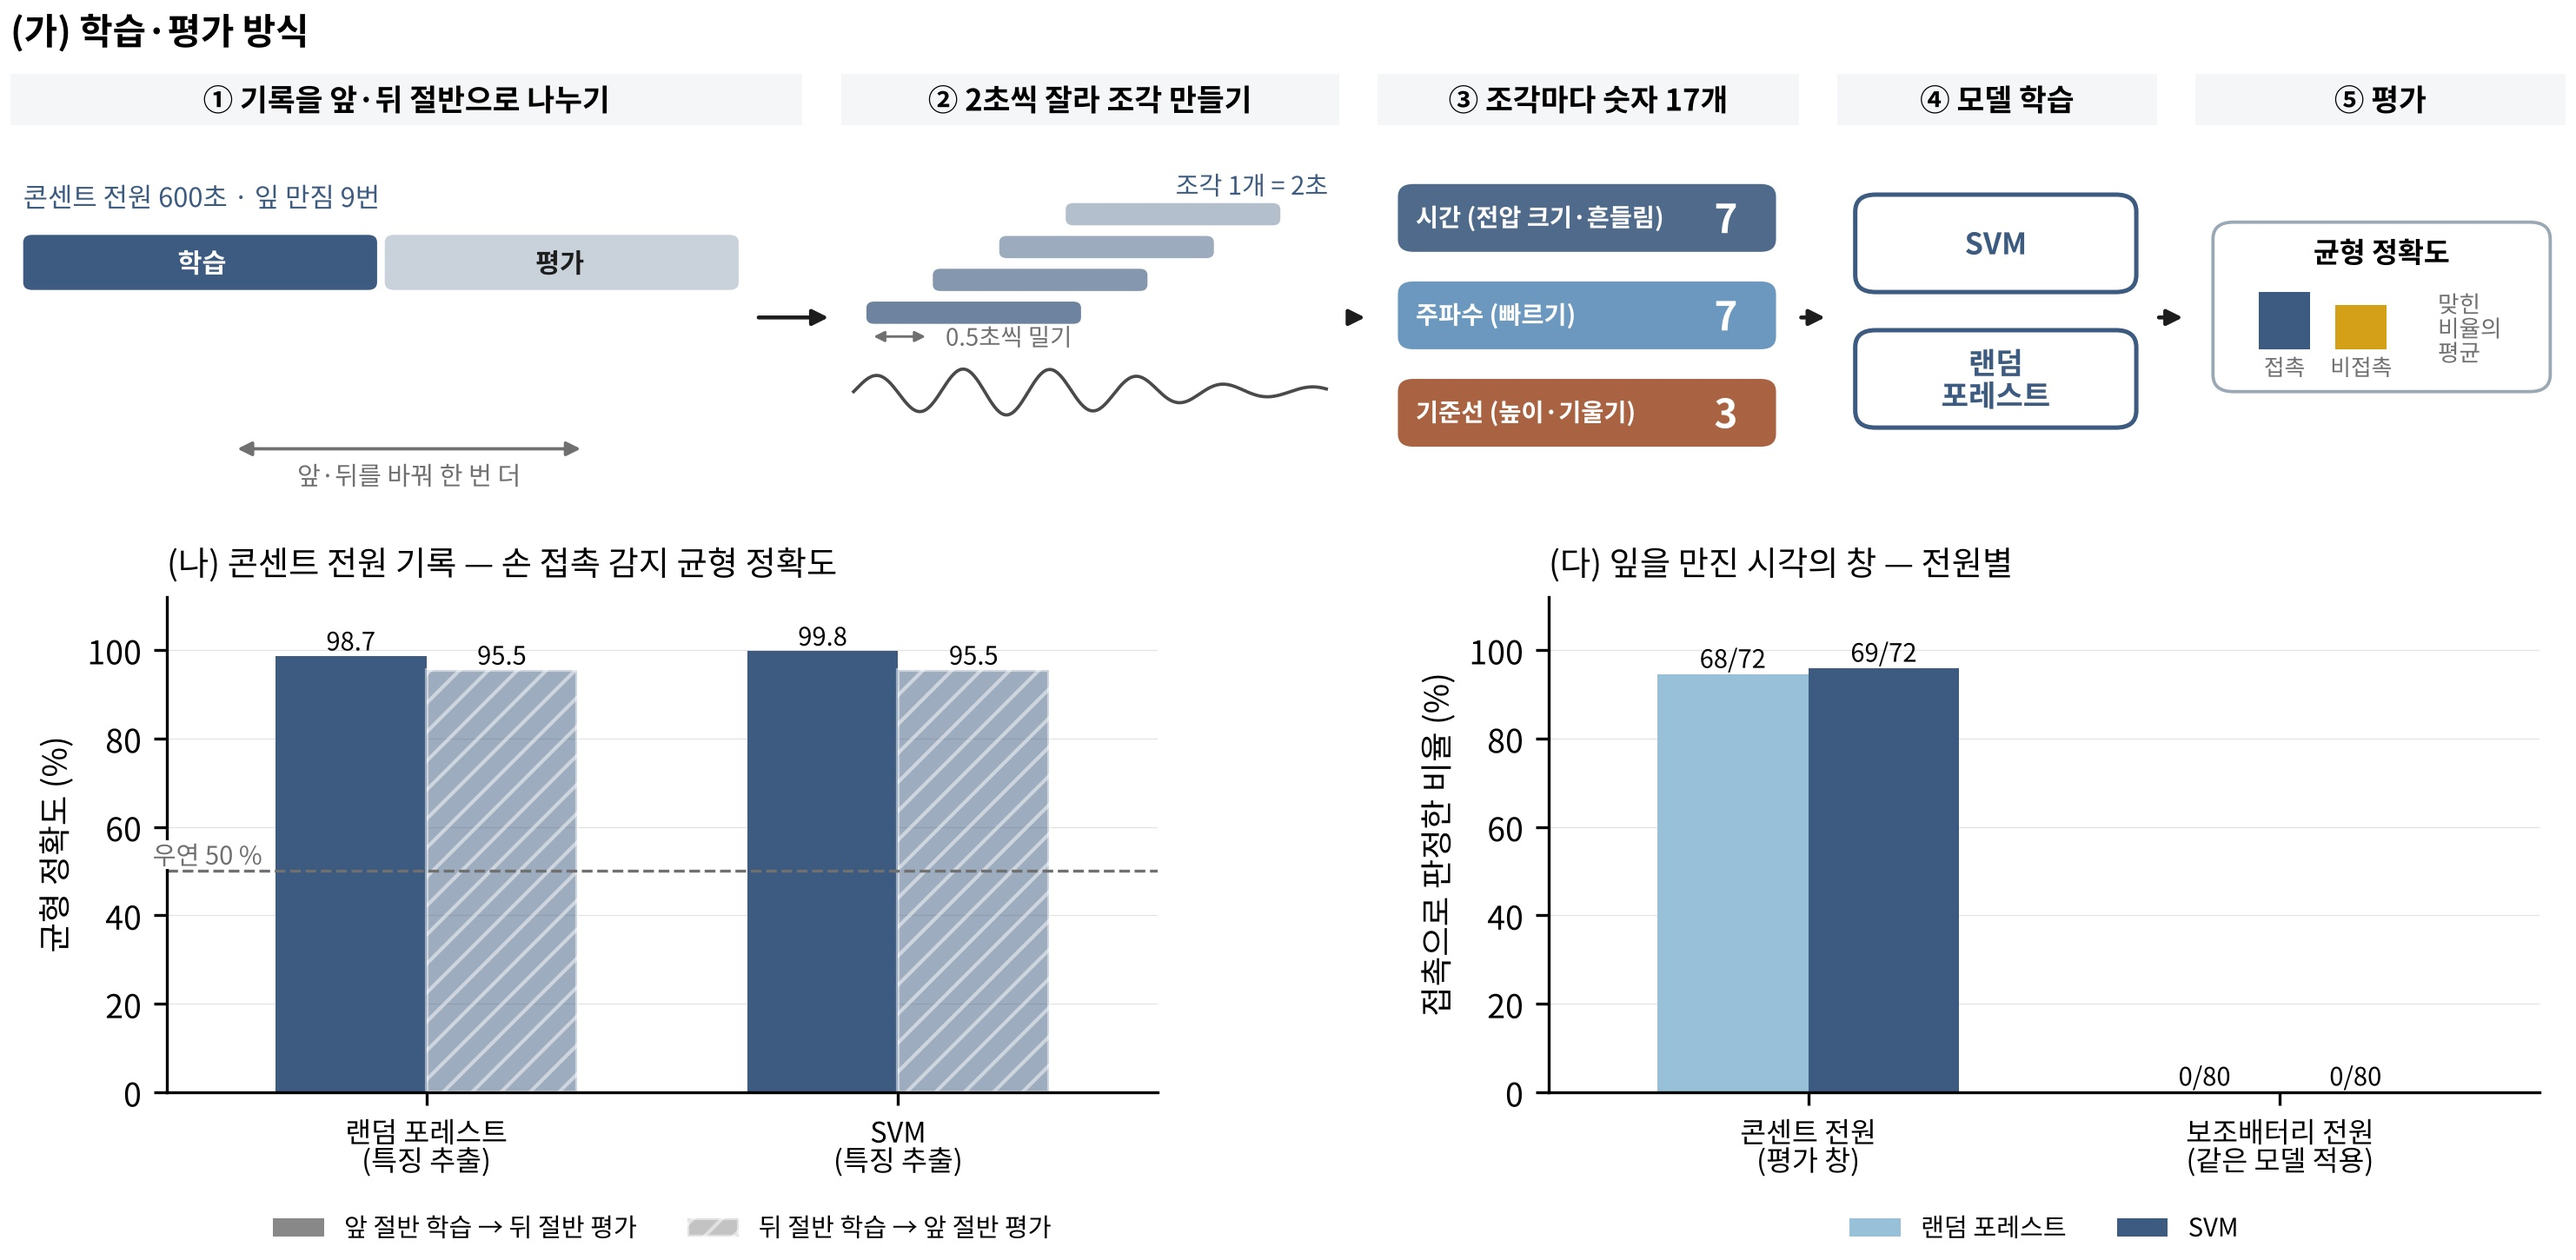
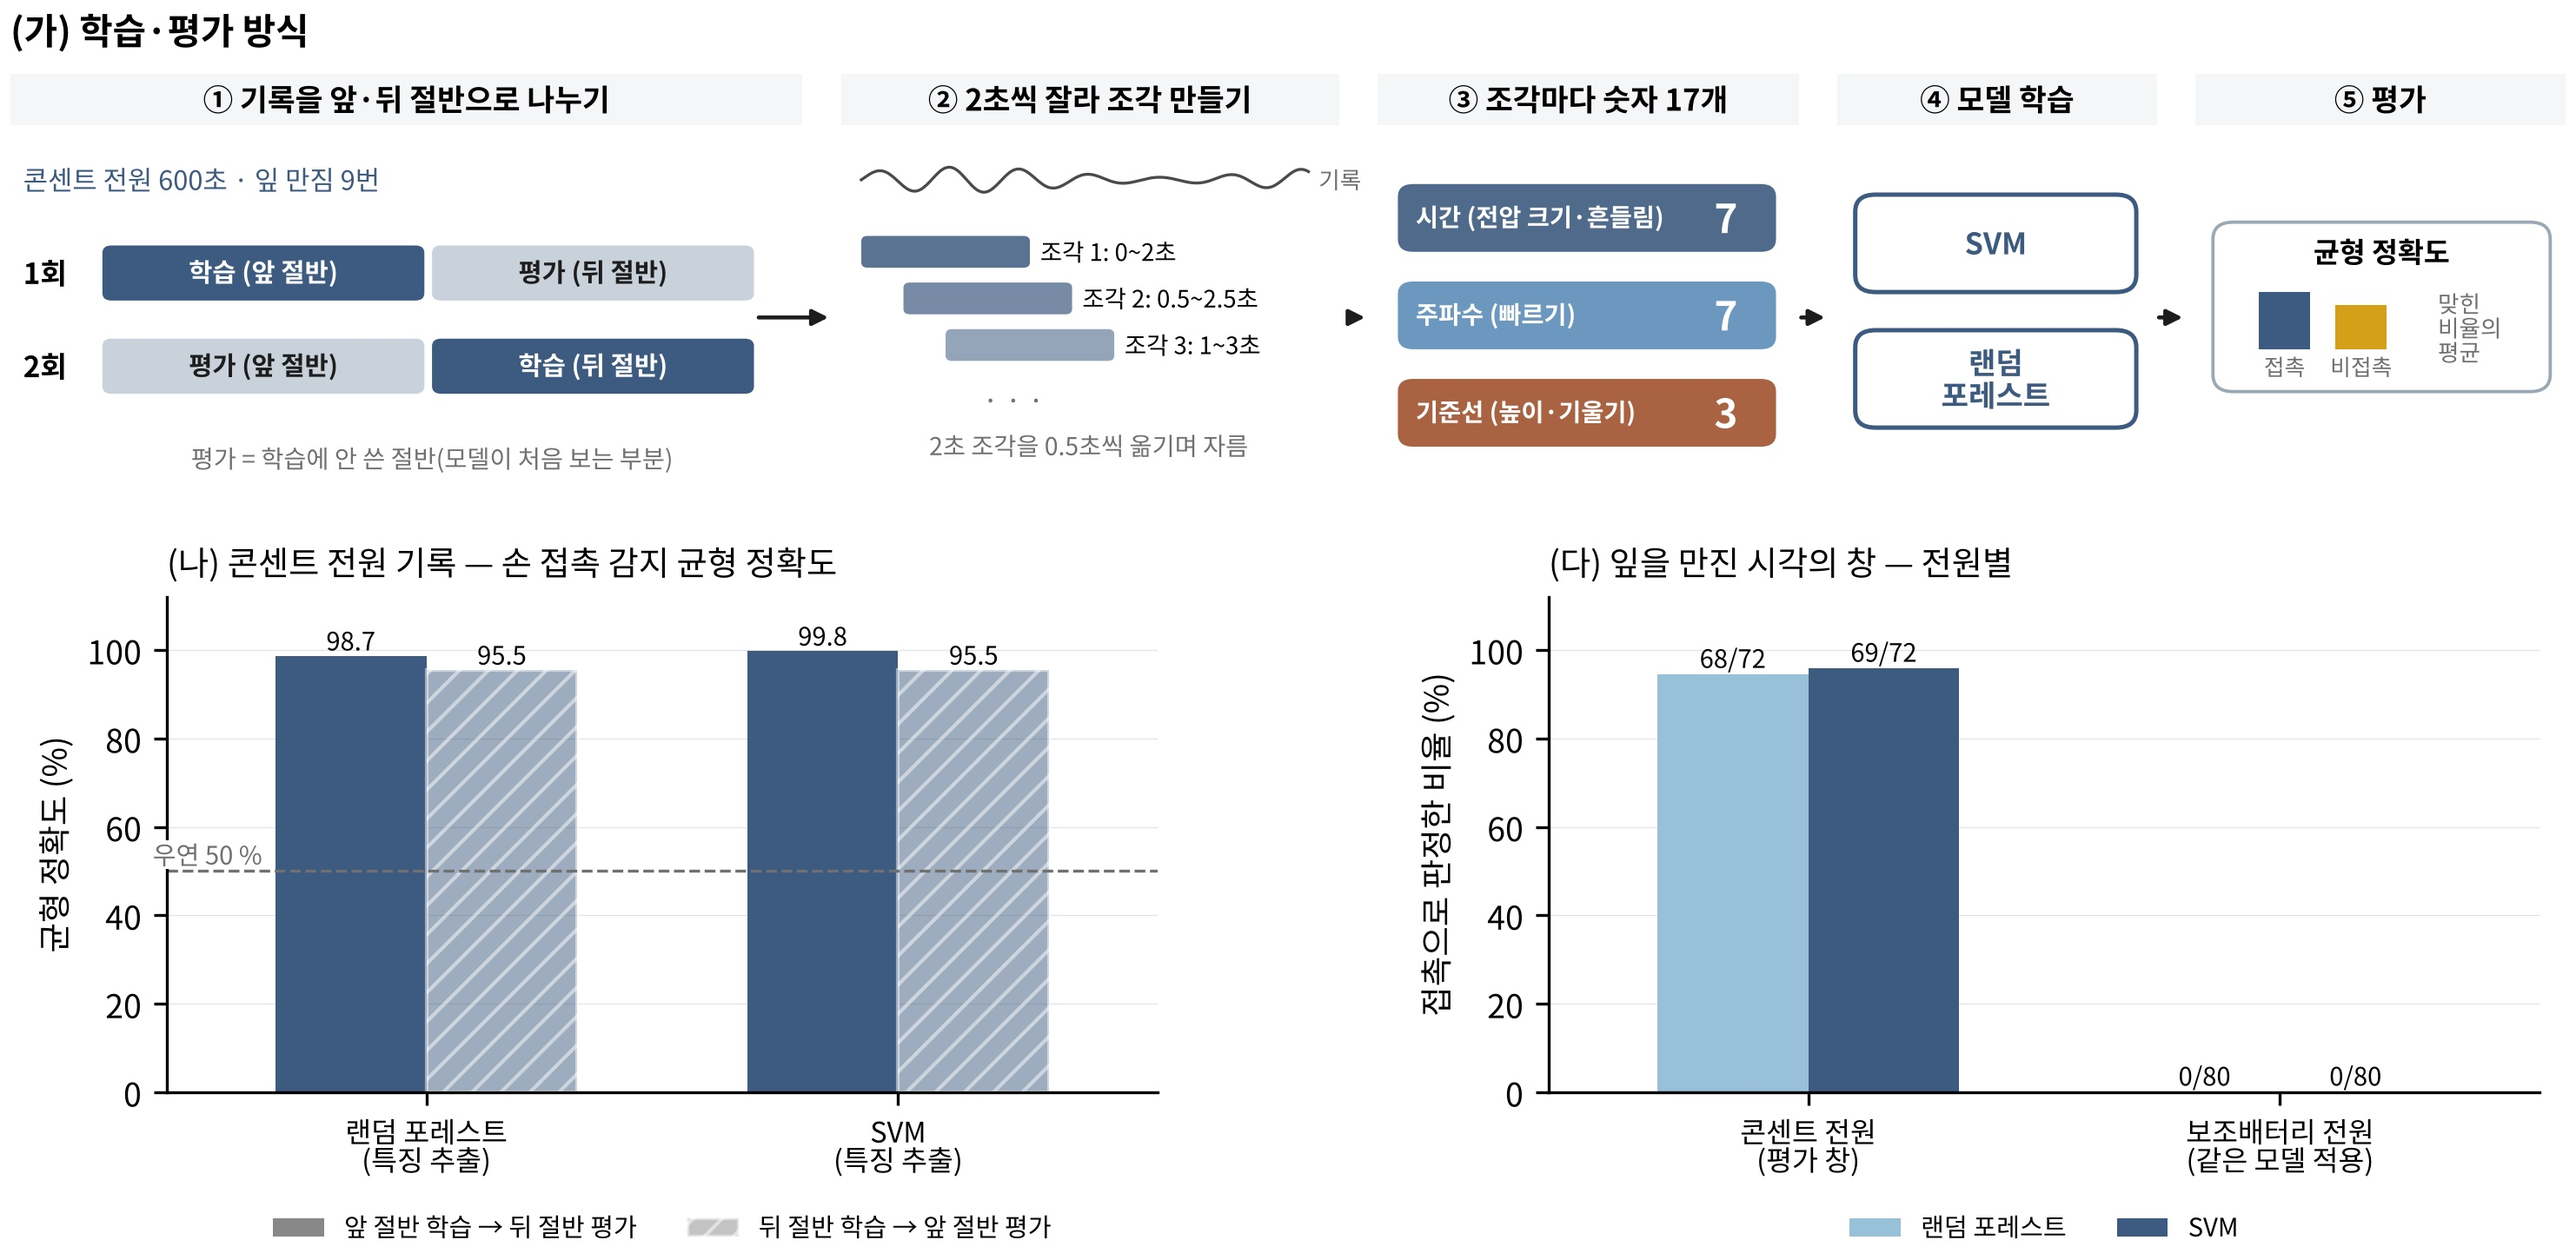
그림6 (가) ①②: 1회·2회 두 줄, 2초 조각을 0.5초씩 옮겨 자르는 모습을 시각으로 표시
Claude-Session: https://claude.ai/code/session_01JhQkgfdzNkTpKPSBfVdw6o

diff --git a/report/stim/fig_ml_eval.py b/report/stim/fig_ml_eval.py
@@ -26,25 +26,31 @@ def arrow(x0, x1, y=9.5):
     a.annotate("", (x1, y), (x0, y), arrowprops=dict(arrowstyle="-|>", lw=1.1, color=INK, mutation_scale=9))
 band(0, 31, "① 기록을 앞·뒤 절반으로 나누기"); band(32.5, 52, "② 2초씩 잘라 조각 만들기"); band(53.5, 70, "③ 조각마다 숫자 17개")
 band(71.5, 84, "④ 모델 학습"); band(85.5, 100, "⑤ 평가")
-# ① 콘센트 기록 600초: 만진 시각 9번, 앞 4번/뒤 5번
-L = 28.0
-a.add_patch(FancyBboxPatch((0.5, 10.8), L * 0.5 - 0.15, 2.6, boxstyle="round,pad=0,rounding_size=0.35", fc=M1, ec="none"))
-a.add_patch(FancyBboxPatch((0.5 + L * 0.5 + 0.15, 10.8), L * 0.5 - 0.15, 2.6, boxstyle="round,pad=0,rounding_size=0.35", fc=M1, alpha=0.28, ec="none"))
-a.text(0.5 + L * 0.25, 12.1, "학습", ha="center", va="center", fontsize=7.3, color="white", fontweight="bold")
-a.text(0.5 + L * 0.75, 12.1, "평가", ha="center", va="center", fontsize=7.3, color=INK, fontweight="bold")
-a.text(0.5, 15.2, "콘센트 전원 600초 · 잎 만짐 9번", fontsize=7.4, color=M1, va="center")
-a.annotate("", (8.6, 3.3), (22.6, 3.3), arrowprops=dict(arrowstyle="<|-|>", lw=0.9, color=GRAY, mutation_scale=8))
-a.text(15.6, 1.6, "앞·뒤를 바꿔 한 번 더", ha="center", fontsize=7, color=GRAY)
+# ① 1회·2회: 학습/평가 절반을 바꿔 두 번
+a.text(0.5, 16.0, "콘센트 전원 600초 · 잎 만짐 9번", fontsize=7.4, color=M1, va="center")
+W = 12.6
+for r, (lab, first, second) in enumerate((("1회", "학습", "평가"), ("2회", "평가", "학습"))):
+    y = 11.6 - r * 4.4
+    a.text(0.5, y, lab, va="center", fontsize=8, fontweight="bold")
+    for k, t_ in enumerate((first, second)):
+        x = 3.6 + k * (W + 0.3)
+        dark = t_ == "학습"
+        a.add_patch(FancyBboxPatch((x, y - 1.3), W, 2.6, boxstyle="round,pad=0,rounding_size=0.35", fc=M1, alpha=1 if dark else 0.28, ec="none"))
+        a.text(x + W / 2, y, t_ + (" (앞 절반)" if k == 0 else " (뒤 절반)"), ha="center", va="center", fontsize=7.1,
+               color="white" if dark else INK, fontweight="bold")
+a.text(16.5, 2.4, "평가 = 학습에 안 쓴 절반(모델이 처음 보는 부분)", ha="center", fontsize=6.8, color=GRAY)
 arrow(29.0, 32.3)
-# ② 신호 + 겹치는 창
-xx = np.linspace(0, 1, 400)
-a.plot(33 + 18.5 * xx, 6.0 + 1.1 * np.sin(xx * 34) * (0.6 + 0.4 * np.sin(xx * 5)), color="#4a4a4a", lw=0.9)
-for k in range(4):
-    x = 33.5 + k * 2.6
-    a.add_patch(FancyBboxPatch((x, 9.2 + k * 1.55), 8.4, 1.05, boxstyle="round,pad=0,rounding_size=0.3", fc=M1, alpha=0.75 - k * 0.12, ec="none"))
-a.text(45.6, 15.3, "조각 1개 = 2초", fontsize=7, color=M1, ha="left")
-a.annotate("", (36.1, 8.6), (33.5, 8.6), arrowprops=dict(arrowstyle="<|-|>", lw=0.7, color=GRAY, mutation_scale=6))
-a.text(36.6, 8.6, "0.5초씩 밀기", ha="left", va="center", fontsize=6.6, color=GRAY)
+# ② 2초 조각을 0.5초씩 옮기며 자르기
+xx = np.linspace(0, 1, 300)
+a.plot(33.3 + 17.5 * xx, 16.0 + 0.6 * np.sin(xx * 40) * (0.6 + 0.4 * np.sin(xx * 7)), color="#4a4a4a", lw=0.8)
+a.text(51.2, 16.0, "기록", fontsize=6.4, color=GRAY, va="center", ha="left")
+U = 3.3   # 1초 길이
+for k, lab in enumerate(("0~2초", "0.5~2.5초", "1~3초")):
+    x = 33.3 + k * 0.5 * U; y = 12.6 - k * 2.2
+    a.add_patch(FancyBboxPatch((x, y - 0.75), 2 * U, 1.5, boxstyle="round,pad=0,rounding_size=0.25", fc=M1, alpha=0.85 - k * 0.15, ec="none"))
+    a.text(x + 2 * U + 0.4, y, f"조각 {k + 1}: {lab}", fontsize=6.6, va="center")
+a.text(33.3 + 1.5 * U + 1.0, 5.6, "· · ·", fontsize=8, color=GRAY, ha="center", va="center")
+a.text(42.2, 3.0, "2초 조각을 0.5초씩 옮기며 자름", ha="center", fontsize=6.8, color=GRAY)
 arrow(52.2, 53.3)
 # ③ 특징 칩 3개
 for k, (t1, n, col) in enumerate((("시간 (전압 크기·흔들림)", "7", "#3d5a80"), ("주파수 (빠르기)", "7", "#5c8db8"), ("기준선 (높이·기울기)", "3", "#a0522d"))):

diff --git a/CLAUDE.md b/CLAUDE.md
@@ -254,7 +254,7 @@ docs/HISTORY.md       2026-11-05 까지의 이 파일 전문
 - 쪽수는 한글에서만 확실하다(`report/stim/pagesim.py` 는 추정).
 - 온도 문장은 "실내 온도는 약 27 ℃였다" 그대로(사용자 결정, 다시 묻지 마라).
 
-- **2026-11-19 최종 본문 = `report/최종보고서_본문_20261119.md`**(사용자 "보고서 완성해"). 7절 A~E 를 반영하고, 정상·물 공급 중단 **분류 결과는 뺐다**(기록·잡음만, 그림4 = 날짜별 잡음). 손 접촉은 11-17 전원별 재실험(main `data/faraday/자극_배터리·콘센트_20261117.*`)으로 바꿈: Ⅳ-2 예비 계단은 짧게, **Ⅳ-6 전원별 손 접촉 + 손 접촉 감지 모델**(`report/stim/touch1117_ml.py` → `touch1117_ml.json`: 2초 창·0.5초 이동, 접촉 72·비접촉 878, RF 98.7/95.5·SVM 99.8/95.5 %, 배터리 기록 적용 0/80). 그림 순서: … 그림4 날짜별 잡음 · **그림5 전원별 손 접촉**(`fig_touch_power.py`) · **그림6 모델 학습·평가**(`fig_ml_eval.py`; 사용자 지시로 (가) 글만 쉬운 말로: "기록을 앞·뒤 절반으로 나누기 / 2초씩 잘라 조각 / 조각마다 숫자 17개(전압 크기·흔들림 7, 빠르기(주파수) 7, 높이·기울기 3) / 모델 학습 / 평가", 노란 선(잎 잡은 시각)은 의미 없어 뺌, 특징 칩은 "시간 (전압 크기·흔들림) · 주파수 (빠르기) · 기준선 (높이·기울기)" 식으로 원래 이름 + 괄호 설명. 그림 모양·(나)(다)는 그대로 — 모양을 바꾸지 마라) · 그림7 실시간 판정 화면. 사용자가 한글에서 붙여 넣는다. **한글 파일 = `report/GML_결과보고서_최종_20261119.hwpx`**(`report/stim/edit_1119.py`: 20261117.hwpx 에 본문 넣고 그림 9개를 빼고(캡션만 남김) 줄 배치 전부 지움 — 사용자가 JPG 를 캡션 위에 넣음. pagesim 추정 글만 약 10쪽, 한글 확인 필요). "새 식물"이라는 말도 뺐다.
+- **2026-11-19 최종 본문 = `report/최종보고서_본문_20261119.md`**(사용자 "보고서 완성해"). 7절 A~E 를 반영하고, 정상·물 공급 중단 **분류 결과는 뺐다**(기록·잡음만, 그림4 = 날짜별 잡음). 손 접촉은 11-17 전원별 재실험(main `data/faraday/자극_배터리·콘센트_20261117.*`)으로 바꿈: Ⅳ-2 예비 계단은 짧게, **Ⅳ-6 전원별 손 접촉 + 손 접촉 감지 모델**(`report/stim/touch1117_ml.py` → `touch1117_ml.json`: 2초 창·0.5초 이동, 접촉 72·비접촉 878, RF 98.7/95.5·SVM 99.8/95.5 %, 배터리 기록 적용 0/80). 그림 순서: … 그림4 날짜별 잡음 · **그림5 전원별 손 접촉**(`fig_touch_power.py`) · **그림6 모델 학습·평가**(`fig_ml_eval.py`; 사용자 지시로 (가) 글만 쉬운 말로: "기록을 앞·뒤 절반으로 나누기 / 2초씩 잘라 조각 / 조각마다 숫자 17개(전압 크기·흔들림 7, 빠르기(주파수) 7, 높이·기울기 3) / 모델 학습 / 평가", 노란 선(잎 잡은 시각)은 의미 없어 뺌, ①은 1회·2회 두 줄(학습·평가 절반 바꿈), ②는 "조각 1: 0~2초, 조각 2: 0.5~2.5초…" 로 0.5초씩 옮겨 자르는 그림, 특징 칩은 "시간 (전압 크기·흔들림) · 주파수 (빠르기) · 기준선 (높이·기울기)" 식으로 원래 이름 + 괄호 설명. 그림 모양·(나)(다)는 그대로 — 모양을 바꾸지 마라) · 그림7 실시간 판정 화면. 사용자가 한글에서 붙여 넣는다. **한글 파일 = `report/GML_결과보고서_최종_20261119.hwpx`**(`report/stim/edit_1119.py`: 20261117.hwpx 에 본문 넣고 그림 9개를 빼고(캡션만 남김) 줄 배치 전부 지움 — 사용자가 JPG 를 캡션 위에 넣음. pagesim 추정 글만 약 10쪽, 한글 확인 필요). "새 식물"이라는 말도 뺐다.
 
 ## 7. 보고서 고칠 목록 (2026-11-17 검토, 사용자가 한글에서 직접 고친다)
 
